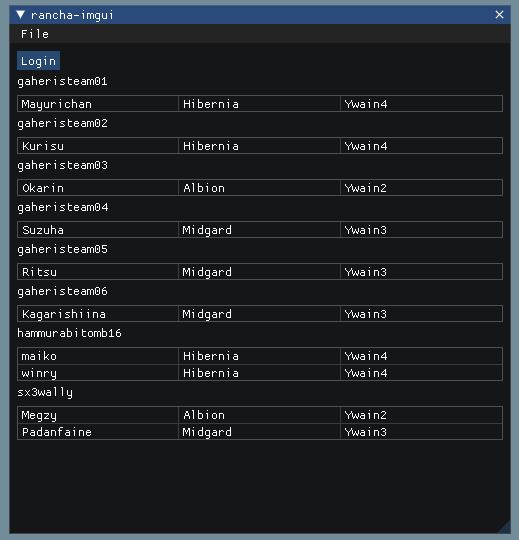
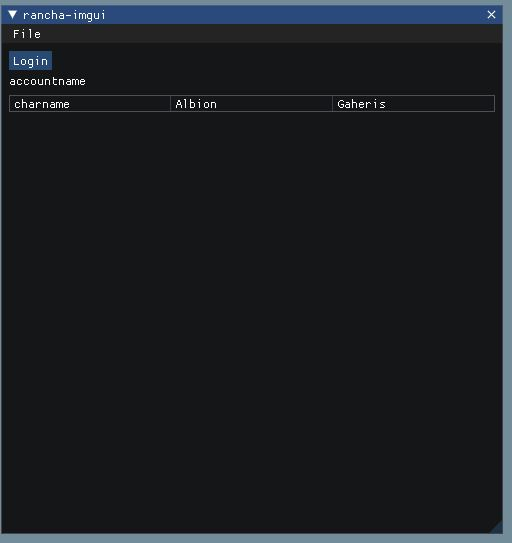
update readme
Add imgui !

diff --git a/README.md b/README.md
@@ -11,7 +11,7 @@
 
 - When you first launch rancha you will be at the Login screen.  There are two ways to log in:
 
-![Login Screen](https://github.com/towbes/rancha/blob/main/images/LoginScreen.JPG?raw=true)
+![Login Screen](https://github.com/towbes/rancha/blob/main/images/imguiLogin.JPG?raw=true)
 
 1. Account Name + Password + Server
 
@@ -20,6 +20,56 @@
 - If you click "Login" DAOC will launch and log in with the input you supplied.
 
 - If you click "Save", rancha will save that information to a file "<accountName>" in the current working directory in a folder called 'accounts'
+# rancha
+ Multibox Character Launcher for Dark Age of Camelot
+
+## Usage Instructions
+
+- Rancha expects your DAOC installation to be at C:\Program Files (x86)\Electronic Arts\Dark Age of Camelot\
+
+- Download the repository and unzip to a directory.  Rancha.exe and login.dll have to be in the same directory.
+
+- The directory should be writeable so rancha can save character profiles into a folder called 'accounts'
+
+- When you first launch rancha you will be at the Login screen.  There are two ways to log in:
+
+![Login Screen](https://github.com/towbes/rancha/blob/main/images/imguiLogin.JPG?raw=true)
+
+1. Account Name + Password + Server
+
+2. Account Name + Password + Character Name + Realm + Server
+
+- If you click "Login" DAOC will launch and log in with the input you supplied.
+
+- If you click "Save Account", rancha will save that information to a file "<accountName>" in the current working directory in a folder called 'accounts'
+
+- If you click "Save Charcter", rancha will save that character information to a file "<accountName>" in the current working directory in a folder called 'accounts'
+
+- You can then click File -> Accounts to view the saved accounts screen:
+
+![Profiles](https://github.com/towbes/rancha/blob/main/images/imguiaccts.JPG?raw=true)
+
+- Click on the account you want to log in and select a server, then press the Login button.
+
+- You can then click File -> Characters to view the saved characters screen:
+
+![Profiles](https://github.com/towbes/rancha/blob/main/images/imguiChars.JPG?raw=true)
+
+- Click on the character you want to log in, then press the Login button.
+
+## What it does
+
+- Saves characters for each account name in separate files
+ 
+- You can save multiple characters for each account.  Enter the character names one at a time and click save (while keeping the same account information entered)
+
+- Allows you to launch more than 2 DAOC windows (by stopping the DAOC mutex)
+
+- Uses ImGui for UI, and cereal for saving/loading files
+ 
+ ## Known Issues / To Do items
+ 
+ - Would like to add the "teams" feature to launch multiple characters at once
 
 - You can then click File -> Saved Profiles to view the profiles screen:
 
